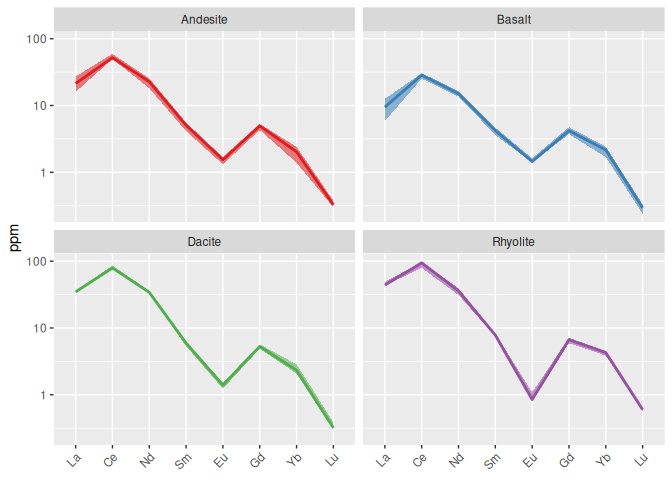
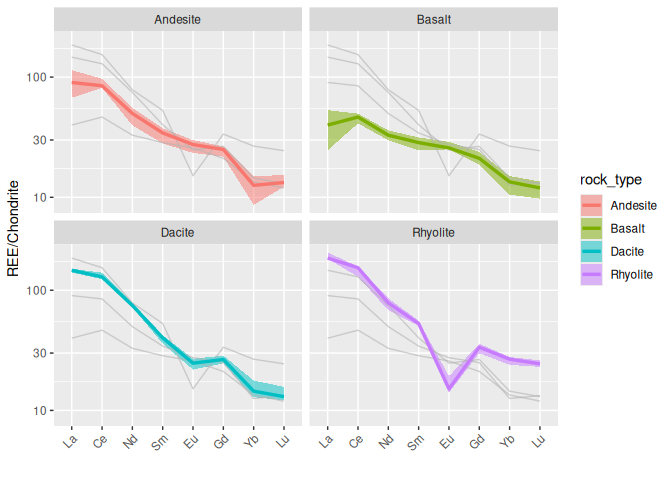
added normalization to spider plots

diff --git a/README.md b/README.md
@@ -90,12 +90,12 @@ dl_imputed <- Random_Number_Imputer(
 
 head(dl_imputed)
 #>   Sample_ID   Au_ppb   Pd_ppb   Pt_ppb Ag_ppb
-#> 1    DL-001 0.032271 0.035000 0.000640  2.542
-#> 2    DL-002 0.034248 0.069538 0.032867  1.503
-#> 3    DL-003 0.087000 0.500000 0.096118  1.806
-#> 4    DL-004 0.023023 0.095096 0.214000  1.017
-#> 5    DL-005 0.045203 0.110000 0.057395  0.831
-#> 6    DL-006 0.039917 0.035303 0.706000  4.201
+#> 1    DL-001 0.005248 0.035000 0.037111  2.542
+#> 2    DL-002 0.013856 0.027026 0.065825  1.503
+#> 3    DL-003 0.087000 0.500000 0.036944  1.806
+#> 4    DL-004 0.032791 0.040040 0.214000  1.017
+#> 5    DL-005 0.046217 0.110000 0.074987  0.831
+#> 6    DL-006 0.012683 0.095921 0.706000  4.201
 ```
 
 ------------------------------------------------------------------------
@@ -175,40 +175,21 @@ whole_rock_data |>
 
 ### REE spider plot
 
-Rare-earth spider diagrams are easy to produce by pivoting the data to
-long format with `tidyr` and plotting with ggplot2. `ggspider()` wraps
-this pattern with faceting and interquartile ribbons.
+`ggspider()` produces faceted spider diagrams with median lines and
+interquartile ribbons. Pass `normalization = "mcdonough_sun_1995"` (or
+another reference) to divide each element by its chondrite value before
+plotting; the y-axis label updates to “REE/Chondrite” automatically.
 
 ``` r
-library(tidyr)
-
 ree <- c("La", "Ce", "Nd", "Sm", "Eu", "Gd", "Yb", "Lu")
 
-whole_rock_data |>
-  dplyr::select(rock_type, dplyr::all_of(ree)) |>
-  tidyr::pivot_longer(-rock_type, names_to = "element", values_to = "ppm") |>
-  dplyr::mutate(element = factor(element, levels = ree)) |>
-  dplyr::group_by(rock_type, element) |>
-  dplyr::summarise(
-    median = median(ppm),
-    q25 = quantile(ppm, 0.25),
-    q75 = quantile(ppm, 0.75),
-    .groups = "drop"
-  ) |>
-  ggplot(aes(
-    x = element,
-    group = rock_type,
-    colour = rock_type,
-    fill = rock_type
-  )) +
-  geom_ribbon(aes(ymin = q25, ymax = q75), alpha = 0.55, colour = NA) +
-  geom_line(aes(y = median), linewidth = 1) +
-  facet_wrap(~rock_type, ncol = 2) +
-  scale_y_log10() +
-  scale_colour_brewer(palette = "Set1", guide = "none") +
-  scale_fill_brewer(palette = "Set1", guide = "none") +
-  labs(x = NULL, y = "ppm") +
-  theme(axis.text.x = element_text(angle = 45, hjust = 1))
+ggspider(
+  data = whole_rock_data,
+  elements = c("rock_type", ree),
+  group = "rock_type",
+  levels = ree,
+  normalization = "mcdonough_sun_1995"
+)
 ```
 
 <img src="man/figures/README-spider-1.png" alt="" width="100%" />